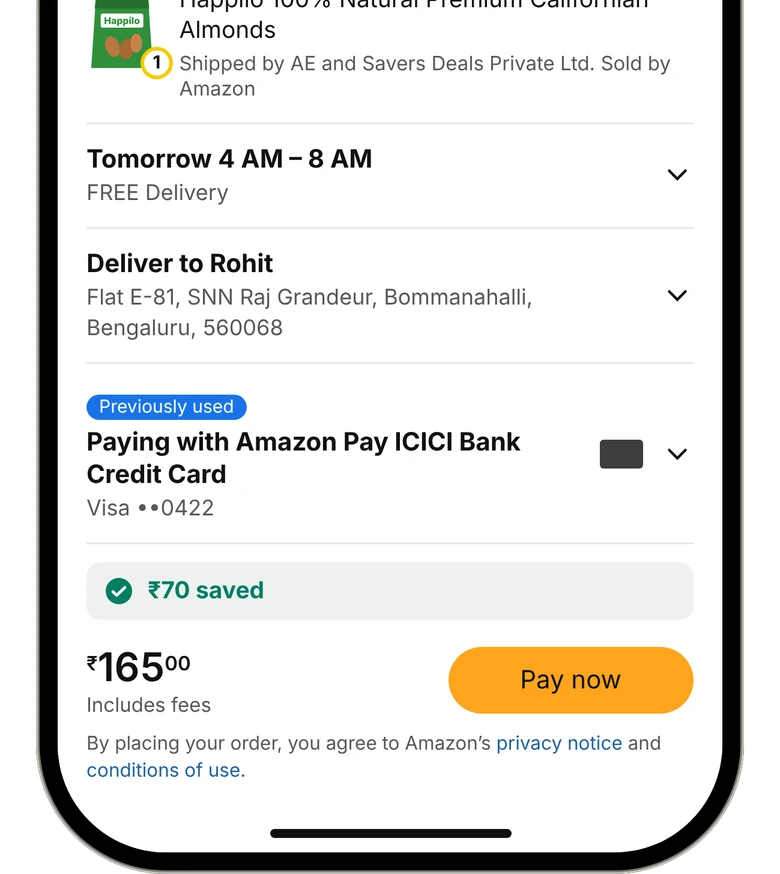
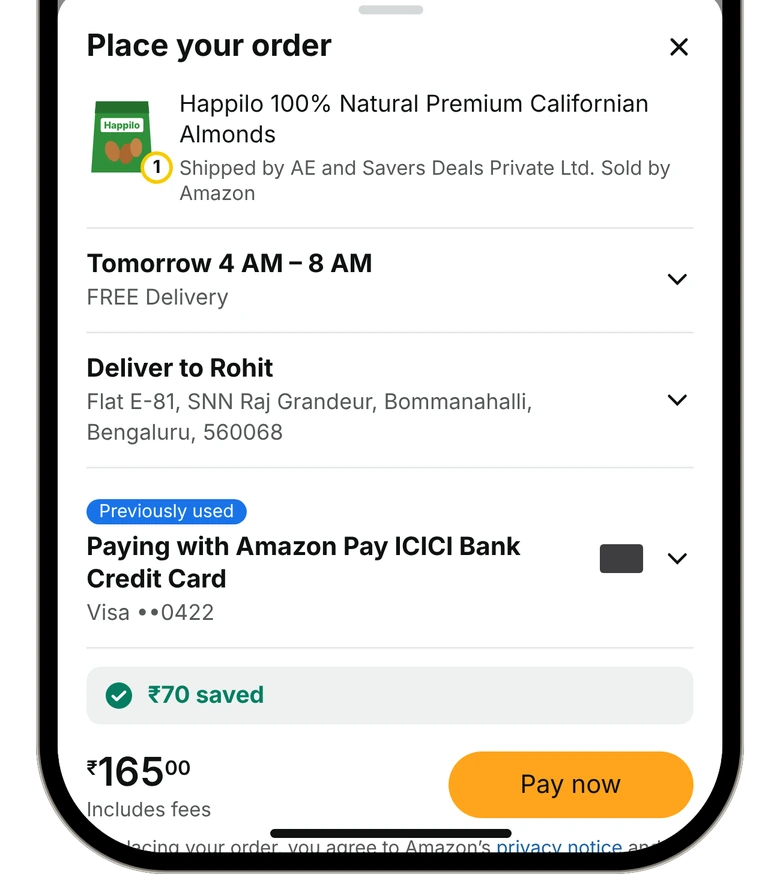
Phone mockups at true iPhone proportions: shorter frames, content cropped from the bottom, tab bars kept
Claude-Session: https://claude.ai/code/session_0148cmcEz2kbuPUL3SE5UdnY

diff --git a/value-perception.html b/value-perception.html
@@ -8,7 +8,7 @@
   <meta property="og:title" content="Fewer offers to read. One price to pay. — Ritwik Dasgupta">
   <meta property="og:description" content="Four versions of the Amazon product page offers experience, built around the price you will actually pay.">
   <meta property="og:url" content="https://ritwiksportfolio.com/value-perception.html">
-  <meta property="og:image" content="https://ritwiksportfolio.com/assets/work/value/pdp-v4.webp?v=4">
+  <meta property="og:image" content="https://ritwiksportfolio.com/assets/work/value/pdp-v4.webp?v=5">
   <meta name="theme-color" content="#f5f5f7">
   <link rel="icon" href="assets/favicon-32.png" sizes="32x32" type="image/png">
   <link rel="icon" href="assets/favicon-192.png" sizes="192x192" type="image/png">
@@ -17,7 +17,7 @@
   <link rel="preconnect" href="https://fonts.gstatic.com" crossorigin>
   <link href="https://fonts.googleapis.com/css2?family=Inter:wght@400;500;600;700;800&display=swap" rel="stylesheet">
   <link rel="stylesheet" href="styles.css?v=59">
-  <link rel="stylesheet" href="case.css?v=33">
+  <link rel="stylesheet" href="case.css?v=34">
   <script>
     // Scroll reveals only run when motion is welcome (see the script at the end)
     if (!matchMedia('(prefers-reduced-motion: reduce)').matches) document.documentElement.classList.add('motion');
@@ -42,7 +42,7 @@
       <p class="cs-subtitle">Redesigning offers on Amazon’s product page, so shoppers in <strong>10 emerging markets</strong> see the price they’ll actually pay.</p>
 
       <figure class="cs-hero-tile">
-        <img src="assets/work/value/pdp-2026-device.webp?v=3" width="1106" height="1964"
+        <img src="assets/work/value/pdp-2026-device.webp?v=4" width="1106" height="1848"
              alt="The 2026 Amazon product page on an iPhone: ₹21,900 with tabs for ‘Buy for ₹20,900’ and ‘No Cost EMI ₹2,322 x 9m’, and a combination using the customer’s HDFC card and a coupon">
       </figure>
       <p class="cs-hero-caption">The 2026 product page, launched in multiple emerging markets.</p>
@@ -234,17 +234,17 @@
         <p class="cs-statement reveal">Each version kept what worked and fixed what the last one got wrong.</p>
 
         <div class="cs-strip reveal" aria-hidden="true">
-          <figure><img src="assets/work/value/pdp-v1.webp?v=4" alt="" loading="lazy"><figcaption>2023</figcaption></figure>
-          <figure><img src="assets/work/value/pdp-v2.webp?v=4" alt="" loading="lazy"><figcaption>2024 · Launched</figcaption></figure>
-          <figure><img src="assets/work/value/pdp-v3.webp?v=4" alt="" loading="lazy"><figcaption>2026 · Launched</figcaption></figure>
-          <figure><img src="assets/work/value/pdp-v4.webp?v=4" alt="" loading="lazy"><figcaption>2027 · Concept</figcaption></figure>
+          <figure><img src="assets/work/value/pdp-v1.webp?v=6" alt="" loading="lazy"><figcaption>2023</figcaption></figure>
+          <figure><img src="assets/work/value/pdp-v2.webp?v=5" alt="" loading="lazy"><figcaption>2024 · Launched</figcaption></figure>
+          <figure><img src="assets/work/value/pdp-v3.webp?v=5" alt="" loading="lazy"><figcaption>2026 · Launched</figcaption></figure>
+          <figure><img src="assets/work/value/pdp-v4.webp?v=5" alt="" loading="lazy"><figcaption>2027 · Concept</figcaption></figure>
         </div>
 
         <article class="cs-version">
           <figure class="cs-phone reveal">
-            <img src="assets/work/value/pdp-v1.webp?v=4" loading="lazy" width="866" height="1764"
-                 alt="2023 product page: an Offers carousel of No Cost EMI, Bank Offer and Cashback cards, a coupon row, exchange, accessories and protection plans, with a total of ₹23,999">
-            <span class="cs-pin cs-pin-r" style="left:88.5%;right:-30px;top:34.4%" data-n="1" aria-hidden="true"><i>1</i></span><span class="cs-pin cs-pin-l" style="left:-30px;right:56.1%;top:37.1%" data-n="2" aria-hidden="true"><i>2</i></span><span class="cs-pin cs-pin-l" style="left:-30px;right:59.5%;top:83.4%" data-n="3" aria-hidden="true"><i>3</i></span>
+            <img src="assets/work/value/pdp-v1.webp?v=6" loading="lazy" width="866" height="1648"
+                 alt="2023 product page: an Offers carousel of No Cost EMI, Bank Offer and Cashback cards, a coupon row, exchange and accessories, with a total of ₹23,999">
+            <span class="cs-pin cs-pin-r" style="left:88.5%;right:-30px;top:36.9%" data-n="1" aria-hidden="true"><i>1</i></span><span class="cs-pin cs-pin-l" style="left:-30px;right:56.1%;top:39.7%" data-n="2" aria-hidden="true"><i>2</i></span><span class="cs-pin cs-pin-l" style="left:-30px;right:59.5%;top:81.7%" data-n="3" aria-hidden="true"><i>3</i></span>
           </figure>
           <div class="cs-copy reveal">
             <p class="cs-step">01 · 2023 · When I joined</p>
@@ -260,9 +260,9 @@
 
         <article class="cs-version">
           <figure class="cs-phone reveal">
-            <img src="assets/work/value/pdp-v2.webp?v=4" loading="lazy" width="866" height="1764"
+            <img src="assets/work/value/pdp-v2.webp?v=5" loading="lazy" width="866" height="1648"
                  alt="2024 product page: offer combinations shown as cards labelled ‘Buy for’ a price, with a single ‘See all offers &amp; discounts’ row">
-            <span class="cs-pin cs-pin-l" style="left:-30px;right:89.8%;top:49.5%" data-n="1" aria-hidden="true"><i>1</i></span><span class="cs-pin cs-pin-r" style="left:63.6%;right:-30px;top:59.1%" data-n="2" aria-hidden="true"><i>2</i></span>
+            <span class="cs-pin cs-pin-l" style="left:-30px;right:89.8%;top:53%" data-n="1" aria-hidden="true"><i>1</i></span><span class="cs-pin cs-pin-r" style="left:63.6%;right:-30px;top:63.3%" data-n="2" aria-hidden="true"><i>2</i></span>
           </figure>
           <div class="cs-copy reveal">
             <p class="cs-step">02 · 2024 · Launched</p>
@@ -288,9 +288,9 @@
 
         <article class="cs-version cs-final">
           <figure class="cs-phone reveal">
-            <img src="assets/work/value/pdp-v3.webp?v=4" loading="lazy" width="866" height="1764"
+            <img src="assets/work/value/pdp-v3.webp?v=5" loading="lazy" width="866" height="1648"
                  alt="2026 product page: tabs for ‘Buy for ₹20,900’ and ‘No Cost EMI ₹2,322 × 9m’, with a combination using the customer’s HDFC card and a coupon">
-            <span class="cs-pin cs-pin-l" style="left:-30px;right:89.6%;top:38%" data-n="1" aria-hidden="true"><i>1</i></span><span class="cs-pin cs-pin-r" style="left:54.3%;right:-30px;top:55.3%" data-n="2" aria-hidden="true"><i>2</i></span><span class="cs-pin cs-pin-r" style="left:70.4%;right:-30px;top:49.1%" data-n="3" aria-hidden="true"><i>3</i></span><span class="cs-pin cs-pin-r" style="left:89.6%;right:-30px;top:37.4%" data-n="4" aria-hidden="true"><i>4</i></span>
+            <span class="cs-pin cs-pin-l" style="left:-30px;right:89.6%;top:40.6%" data-n="1" aria-hidden="true"><i>1</i></span><span class="cs-pin cs-pin-r" style="left:54.3%;right:-30px;top:59.2%" data-n="2" aria-hidden="true"><i>2</i></span><span class="cs-pin cs-pin-r" style="left:70.4%;right:-30px;top:52.5%" data-n="3" aria-hidden="true"><i>3</i></span><span class="cs-pin cs-pin-r" style="left:89.6%;right:-30px;top:40%" data-n="4" aria-hidden="true"><i>4</i></span>
           </figure>
           <div class="cs-copy reveal">
             <p class="cs-step">03 · 2026 · Launched</p>
@@ -324,18 +324,18 @@
           <p class="cs-statement reveal">One design, every market.</p>
           <p class="cs-intro reveal">The launched design adapts to each market’s language, reading direction and way of paying: right-to-left Arabic and Tabby instalments in Saudi Arabia, Turkish lira in Turkey, and interest-free instalments in Brazil.</p>
           <div class="cs-strip reveal">
-          <figure><img src="assets/work/value/loc-sa-full.webp" width="600" height="1222" loading="lazy" alt="Saudi Arabia product page in Arabic, right to left: a discounted price tab of 3,644 riyals with a coupon, app-only instalment and Emirates NBD card offer"><figcaption>Saudi Arabia · Pay in full</figcaption></figure>
-          <figure><img src="assets/work/value/loc-sa-tabby.webp" width="600" height="1222" loading="lazy" alt="Saudi Arabia product page in Arabic on the instalment tab: 924 riyals × 4 months at 0% interest, with Tabby"><figcaption>Saudi Arabia · Instalments</figcaption></figure>
-          <figure><img src="assets/work/value/loc-tr.webp" width="600" height="1222" loading="lazy" alt="Turkey product page in Turkish: a Buy for tab with a coupon and an instalment tab of 1.722 TL × 9 months"><figcaption>Turkey</figcaption></figure>
-          <figure><img src="assets/work/value/loc-br.webp" width="600" height="1222" loading="lazy" alt="Brazil product page in Portuguese, opening on the 12x interest-free instalment tab, with a coupon and bank card options"><figcaption>Brazil · Sem juros</figcaption></figure>
+          <figure><img src="assets/work/value/loc-sa-full.webp?v=2" width="600" height="1142" loading="lazy" alt="Saudi Arabia product page in Arabic, right to left: a discounted price tab of 3,644 riyals with a coupon, app-only instalment and Emirates NBD card offer"><figcaption>Saudi Arabia · Pay in full</figcaption></figure>
+          <figure><img src="assets/work/value/loc-sa-tabby.webp?v=2" width="600" height="1142" loading="lazy" alt="Saudi Arabia product page in Arabic on the instalment tab: 924 riyals × 4 months at 0% interest, with Tabby"><figcaption>Saudi Arabia · Instalments</figcaption></figure>
+          <figure><img src="assets/work/value/loc-tr.webp?v=2" width="600" height="1142" loading="lazy" alt="Turkey product page in Turkish: a Buy for tab with a coupon and an instalment tab of 1.722 TL × 9 months"><figcaption>Turkey</figcaption></figure>
+          <figure><img src="assets/work/value/loc-br.webp?v=2" width="600" height="1142" loading="lazy" alt="Brazil product page in Portuguese, opening on the 12x interest-free instalment tab, with a coupon and bank card options"><figcaption>Brazil · Sem juros</figcaption></figure>
           </div>
         </div>
 
         <article class="cs-version cs-concept">
           <figure class="cs-phone reveal">
-            <img src="assets/work/value/pdp-v4.webp?v=4" loading="lazy" width="866" height="1764"
+            <img src="assets/work/value/pdp-v4.webp?v=5" loading="lazy" width="866" height="1648"
                  alt="2027 concept: two rows, ‘Pay in full ₹20,800’ and ‘No Cost EMI ₹2,311 × 9m’, each with an Apply button, a ‘Lowest: ₹20,300 with HSBC Credit Card’ line and a ‘Buy 3, get 6% off’ progress bar">
-            <span class="cs-pin cs-pin-r" style="left:87.1%;right:-30px;top:40%" data-n="1" aria-hidden="true"><i>1</i></span><span class="cs-pin cs-pin-l" style="left:-30px;right:89.8%;top:40%" data-n="2" aria-hidden="true"><i>2</i></span><span class="cs-pin cs-pin-l" style="left:-30px;right:76.4%;top:47.6%" data-n="3" aria-hidden="true"><i>3</i></span><span class="cs-pin cs-pin-r" style="left:62.1%;right:-30px;top:56.9%" data-n="4" aria-hidden="true"><i>4</i></span><span class="cs-pin cs-pin-r" style="left:56.5%;right:-30px;top:65.4%" data-n="5" aria-hidden="true"><i>5</i></span>
+            <span class="cs-pin cs-pin-r" style="left:87.1%;right:-30px;top:42.8%" data-n="1" aria-hidden="true"><i>1</i></span><span class="cs-pin cs-pin-l" style="left:-30px;right:89.8%;top:42.8%" data-n="2" aria-hidden="true"><i>2</i></span><span class="cs-pin cs-pin-l" style="left:-30px;right:76.4%;top:50.9%" data-n="3" aria-hidden="true"><i>3</i></span><span class="cs-pin cs-pin-r" style="left:62.1%;right:-30px;top:60.9%" data-n="4" aria-hidden="true"><i>4</i></span><span class="cs-pin cs-pin-r" style="left:56.5%;right:-30px;top:70%" data-n="5" aria-hidden="true"><i>5</i></span>
           </figure>
           <div class="cs-copy reveal">
             <p class="cs-step">04 · 2027 · Concept</p>
@@ -363,8 +363,8 @@
       <p class="cs-statement reveal">Drag to compare the page I inherited with the one that launched.</p>
       <div class="cs-compare reveal" style="--pos: 50%">
         <div class="cs-compare-stage">
-          <img class="cs-after" src="assets/work/value/pdp-v3.webp?v=4" width="866" height="1764" loading="lazy" alt="2026 product page, launched">
-          <img class="cs-before" src="assets/work/value/pdp-v1.webp?v=4" width="866" height="1764" loading="lazy" alt="2023 product page, inherited">
+          <img class="cs-after" src="assets/work/value/pdp-v3.webp?v=5" width="866" height="1648" loading="lazy" alt="2026 product page, launched">
+          <img class="cs-before" src="assets/work/value/pdp-v1.webp?v=6" width="866" height="1648" loading="lazy" alt="2023 product page, inherited">
           <span class="cs-compare-line" aria-hidden="true"><i>‹ ›</i></span>
           <input type="range" min="0" max="100" value="50" aria-label="Compare the 2023 and 2026 product pages">
         </div>

diff --git a/index.html b/index.html
@@ -178,17 +178,17 @@
         <div class="track" tabindex="0" role="region" aria-label="Fewer offers to read, one price to pay: features">
           <figure class="slide ap">
             <figcaption><h5>The price you’ll pay, upfront. Every offer you’re eligible for, combined into one “Buy for” price.</h5></figcaption>
-            <div class="ap-media"><img src="assets/work/value/ap-price.webp?v=2" width="780" height="1048" alt="The launched product page: Buy for ₹20,900 and No Cost EMI ₹2,322 x 9m tabs, with a coupon and the customer’s HDFC card combined" loading="lazy"></div>
+            <div class="ap-media"><img src="assets/work/value/ap-price.webp?v=9" width="780" height="1048" alt="The launched product page: Buy for ₹20,900 and No Cost EMI ₹2,322 x 9m tabs, with a coupon and the customer’s HDFC card combined" loading="lazy"></div>
             <a class="fw-link" href="value-perception.html" tabindex="-1" aria-hidden="true"></a>
           </figure>
           <figure class="slide ap">
             <figcaption><h5>From more than ten types of offers, each with its own rules, to one price you can trust.</h5></figcaption>
-            <div class="ap-media pair"><img src="assets/work/value/ap-before-after.webp?v=3" width="1200" height="1155" alt="The 2023 product page with an offers carousel next to the launched page with one Buy for price" loading="lazy"></div>
+            <div class="ap-media pair"><img src="assets/work/value/ap-before-after.webp?v=10" width="1200" height="1079" alt="The 2023 product page with an offers carousel next to the launched page with one Buy for price" loading="lazy"></div>
             <a class="fw-link" href="value-perception.html" tabindex="-1" aria-hidden="true"></a>
           </figure>
           <figure class="slide ap">
             <figcaption><h5>Next: pay in full or monthly, side by side, with the best offer applied in one tap.</h5></figcaption>
-            <div class="ap-media"><img src="assets/work/value/ap-concept.webp?v=2" width="780" height="1048" alt="2027 concept: Pay in full ₹20,800 and No Cost EMI ₹2,311 x 9m rows, each with Apply" loading="lazy"></div>
+            <div class="ap-media"><img src="assets/work/value/ap-concept.webp?v=9" width="780" height="1048" alt="2027 concept: Pay in full ₹20,800 and No Cost EMI ₹2,311 x 9m rows, each with Apply" loading="lazy"></div>
             <a class="fw-link" href="value-perception.html" tabindex="-1" aria-hidden="true"></a>
           </figure>
         </div>
@@ -206,15 +206,15 @@
         <div class="track" tabindex="0" role="region" aria-label="One-tap in-context checkout: features">
           <figure class="slide ap">
             <figcaption><h5>Buy without leaving the page you’re on. Checkout opens right where you decide.</h5></figcaption>
-            <div class="ap-media"><img src="assets/work/ap-co-context.webp?v=1" width="780" height="1048" alt="A product page with the Place your order sheet open over it: item, delivery time and address" loading="lazy"></div>
+            <div class="ap-media"><img src="assets/work/ap-co-context.webp?v=9" width="780" height="1048" alt="A product page with the Place your order sheet open over it: item, delivery time and address" loading="lazy"></div>
           </figure>
           <figure class="slide ap">
             <figcaption><h5>Checkout wherever you are: home, search, the cart and every page in between.</h5></figcaption>
-            <div class="ap-media low"><img src="assets/work/ap-co-anywhere.webp?v=1" width="780" height="874" alt="Search results with a floating checkout tray above the tab bar: three product thumbnails, plus 2, ₹455 and a Buy button" loading="lazy"></div>
+            <div class="ap-media low"><img src="assets/work/ap-co-anywhere.webp?v=9" width="780" height="874" alt="Search results with a floating checkout tray above the tab bar: three product thumbnails, plus 2, ₹455 and a Buy button" loading="lazy"></div>
           </figure>
           <figure class="slide ap">
             <figcaption><h5>Delivery, address and payment at a glance. Then one tap to pay.</h5></figcaption>
-            <div class="ap-media low"><img src="assets/work/ap-co-pay.webp?v=1" width="780" height="874" alt="The Place your order sheet: Amazon Pay ICICI card, ₹70 saved, ₹165 total and a Pay now button" loading="lazy"></div>
+            <div class="ap-media low"><img src="assets/work/ap-co-pay.webp?v=9" width="780" height="874" alt="The Place your order sheet: Amazon Pay ICICI card, ₹70 saved, ₹165 total and a Pay now button" loading="lazy"></div>
           </figure>
         </div>
         <div class="project-foot">

diff --git a/case.css b/case.css
@@ -352,7 +352,7 @@
 
 /* Before / after you can drag */
 .cs-compare { --w: clamp(260px, 30vw, 360px); width: var(--w); margin: 8px auto 72px; }
-.cs-compare-stage { position: relative; aspect-ratio: 866 / 1764; }
+.cs-compare-stage { position: relative; aspect-ratio: 866 / 1648; }
 .cs-compare-stage img { position: absolute; inset: 0; width: 100%; height: 100%; }
 .cs-before { clip-path: inset(0 calc(100% - var(--pos)) 0 0); }
 .cs-compare-line { position: absolute; top: 2%; bottom: 2%; left: var(--pos); width: 2px; margin-left: -1px; background: #1d1d1f; box-shadow: 0 0 0 1.5px #fff; pointer-events: none; }
